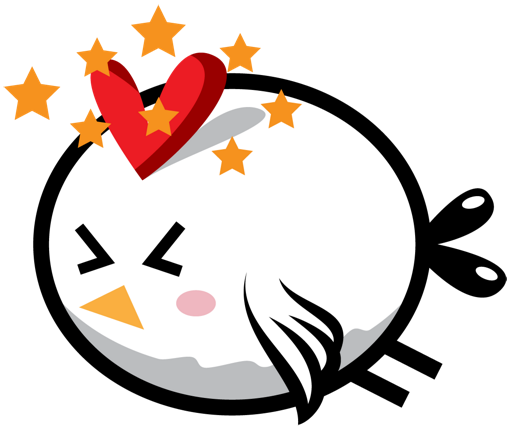
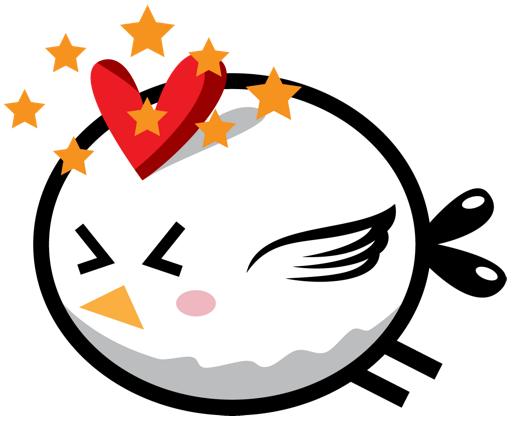
Bird animation working

diff --git a/20160923GameJam/Classes/Enemy.h b/20160923GameJam/Classes/Enemy.h
@@ -8,14 +8,15 @@ enum EnemyType
 {
 	CAR = 0,		// Fast mover
 	BIRD = 1,		// Flying
-	TEMP = 2,		// Jumping (TBD)
+	JUMPING = 2,		// Jumping (TBD)
 };
 class Enemy : public cocos2d::Layer
 {
 private:
 	cocos2d::Sprite* m_enemy;
 	EnemyType m_type;
-	cocos2d::Vector<cocos2d::SpriteFrame*> m_flyingFrames;
+	cocos2d::Vector<cocos2d::SpriteFrame*> m_birdFlyingFrames;
+	cocos2d::Vector<cocos2d::SpriteFrame*> m_birdHitFrames;
 	//cocos2d::Sprite* m_bgRight;
 
 public:
